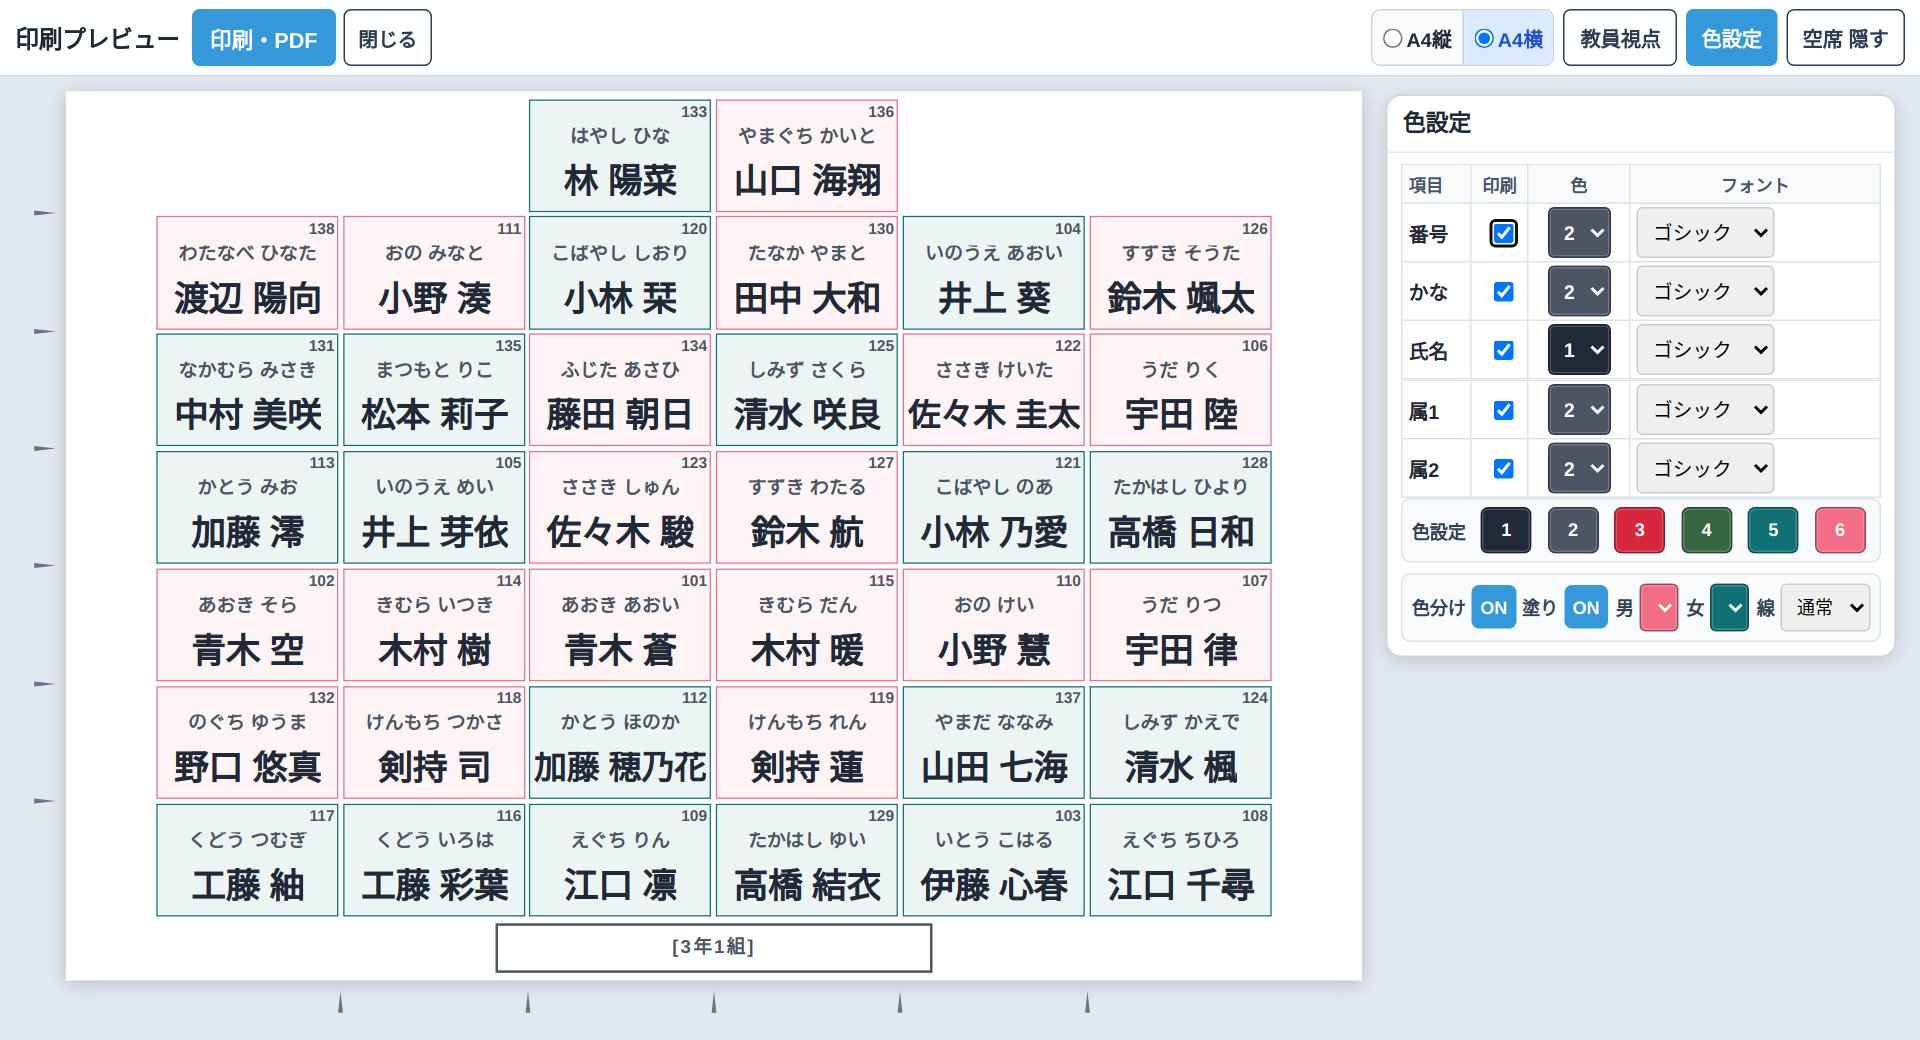
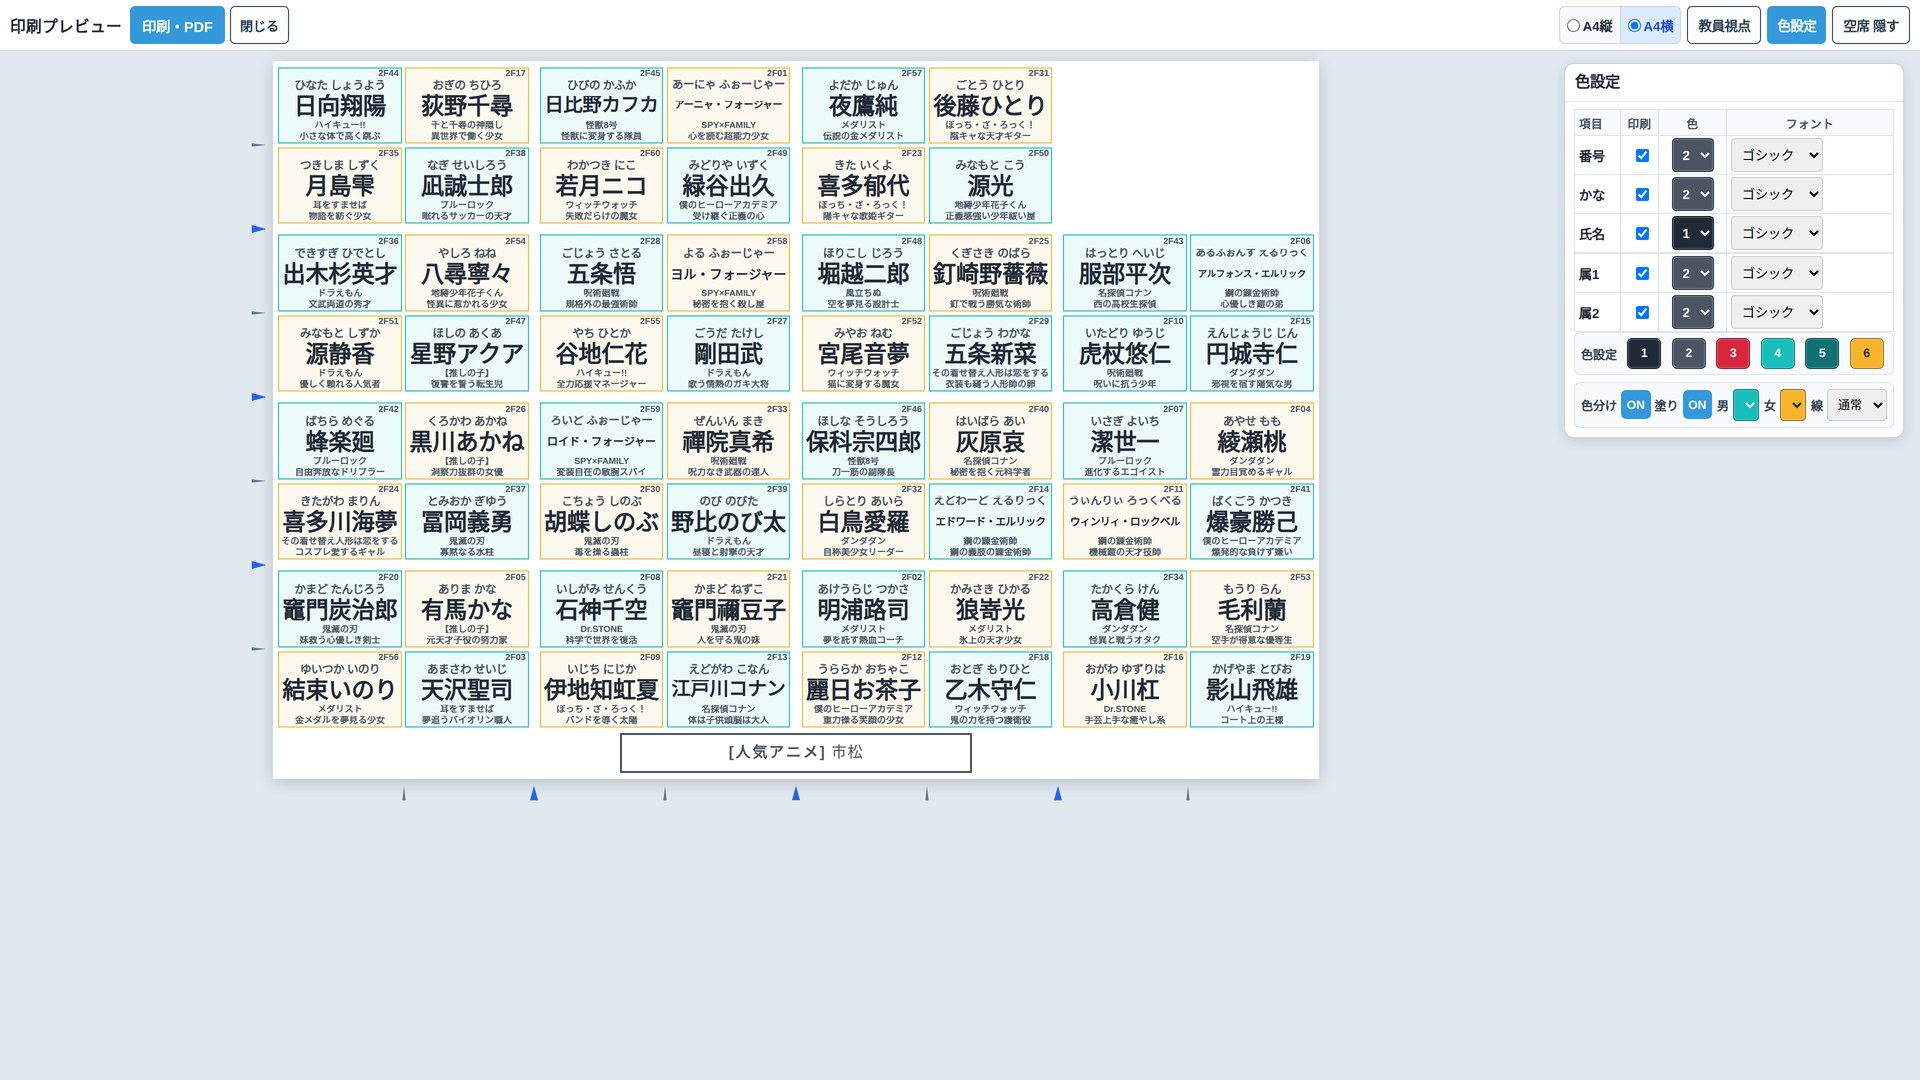
Guide: document seat count setting and print seat gap adjustment

diff --git a/guide.html b/guide.html
@@ -128,18 +128,33 @@
     <section class="card" id="step2">
       <h2><span class="step-no">2</span>座席を用意する</h2>
       <p><span class="ui">座席表・設定</span> タブの座席表の初期設定は <strong>6列 × 7行 = 42席</strong> です。画面の下側が教卓側で、<span class="ui">廊下</span> と <span class="ui">窓</span> の表示で教室の向きを確認できます。</p>
+
+      <h3>座席数を変える ― 教室の形に合わせる</h3>
+      <p>教室の列・行の数が初期設定と違うときは、右側パネルの <span class="ui">座席数 ○×○</span> ボタンを押して変更できます。<strong>横4〜8列・縦4〜10行</strong>の範囲で選べます（最大80席）。</p>
+      <figure class="mid">
+        <img src="guide-img/seat-size-dialog.jpg" alt="座席数設定ダイアログ。横8列・縦8行が選ばれ、全64枠／有効60席・名簿60名と表示されている" loading="lazy">
+        <figcaption>座席数設定。横と縦を選ぶと、全枠数・有効な席数・名簿の人数が表示される</figcaption>
+      </figure>
+      <ul>
+        <li>表示される「全○枠／有効○席・名簿○名」を見て、生徒全員が収まることを確認してから <span class="ui">変更する</span> を押します。</li>
+        <li>生徒が収まらない組み合わせを選ぶと注意が表示され、<span class="ui">変更する</span> は押せません（下の図）。</li>
+        <li>変更しても、新しい範囲内に収まっている配置はそのまま残ります。範囲の外にはみ出す席に生徒が配置されている場合は、確認画面が出て、現在の配置をクリアして変更されます（名簿と、確定した履歴は残ります）。確定前のプレビュー表示は破棄されます。</li>
+      </ul>
+      <figure class="mid">
+        <img src="guide-img/seat-size-error.jpg" alt="生徒60名に対して有効座席が42席ですという注意が表示され、「変更する」が押せなくなった座席数設定ダイアログ" loading="lazy">
+        <figcaption>生徒が収まらない組み合わせを選んだ場合。注意が表示され、「変更する」は押せない</figcaption>
+      </figure>
+
+      <h3>使わない席を空席にする</h3>
       <ul>
         <li><strong>使わない席は、タップ（クリック）すると非アクティブ（空席）になります。</strong>もう一度タップすると再びアクティブに戻ります。空席は配置の対象から外れます。</li>
-        <li>有効な席数は、右側の <span class="ui">座席 ○席</span> の表示で確認できます。生徒数と座席数をぴったり合わせておくと、配置が分かりやすくなります。</li>
+        <li>有効な席数は、右側の <span class="ui">有効 ○席</span> の表示で確認できます。生徒数と座席数をぴったり合わせておくと、配置が分かりやすくなります。</li>
       </ul>
       <p>例として、38名のクラスでは、最後列（教卓から一番遠い列）の左端2席と右端2席、合わせて4席を非アクティブにして、座席数を38席に合わせます。</p>
       <figure>
         <img src="guide-img/seats.jpg" alt="最後列の両端4席を非アクティブにした座席表" loading="lazy">
         <figcaption>最後列の両端4席を非アクティブにした状態。非アクティブの席は座標（a7など）が表示されず、空白になる</figcaption>
       </figure>
-      <div class="note">
-        <strong>座席数の変更：</strong>メイン画面の「座席数」で横4〜8列・縦4〜10行を選べます（最大80席）。
-      </div>
     </section>
 
     <section class="card" id="step3">
@@ -230,7 +245,19 @@
       </ol>
       <figure>
         <img src="guide-img/print-preview.jpg" alt="印刷プレビューの画面" loading="lazy">
-        <figcaption>印刷プレビュー。左が印刷イメージ、右が表示・色の設定、上部に「印刷・PDF」ボタン</figcaption>
+        <figcaption>印刷プレビュー。左が印刷イメージ、右が表示・色の設定、上部に「印刷・PDF」ボタン。盤面の下辺と左辺に並ぶ小さな三角形が、席の間隔を調整する楔（くさび）ボタン</figcaption>
+      </figure>
+
+      <h3>席と席の間隔を調整する（楔ボタン）</h3>
+      <p>印刷プレビューの盤面のまわりには、列と列の間・行と行の間の境界ごとに、小さな三角形のボタン（楔ボタン）があります。列の間の楔は盤面の<strong>下辺</strong>に、行の間の楔は<strong>左辺</strong>に並びます。</p>
+      <ul>
+        <li>楔ボタンを押すたびに、その境界の間隔が <strong>1倍 → 3倍 → 5倍 → 1倍</strong> と切り替わります。広げた境界の楔は、太く青くなります。</li>
+        <li>通路にしたい列の間だけ広げる、といった調整が境界ごとにできます。</li>
+        <li>間隔の設定はクラスごとに保存され、通常画面の座席表にも同じ間隔が反映されます。楔ボタン自体は印刷されません。</li>
+      </ul>
+      <figure>
+        <img src="guide-img/print-gaps.jpg" alt="盤面下辺の楔ボタンの拡大。太く青い楔ほど間隔が広い" loading="lazy">
+        <figcaption>盤面下辺の楔ボタン（拡大）。左から5倍・3倍・1倍・3倍の状態で、太く青い楔のところほど席の間隔が広い</figcaption>
       </figure>
     </section>
 
@@ -241,6 +268,8 @@
         <dd>使用しているパソコンのブラウザ内に自動で保存されます。別のパソコンやブラウザでは引き継がれないので、移したいときは <span class="ui">名簿管理</span> の <span class="ui">バックアップ保存</span> でファイルに書き出し、移し先で <span class="ui">バックアップ読込</span> を使ってください。更新前の通常版データが同じブラウザに残っている場合は、座席表・設定の <span class="ui">旧通常版のデータを引き継ぐ</span> からクラスを追加できます。</dd>
         <dt>画面の向きや見え方を変えたい</dt>
         <dd>右上の <span class="ui">画面： 横</span> で縦向き表示に切り替えられます。<span class="ui">教員視点</span> / <span class="ui">生徒視点</span> は、座席表を見る向き（教卓側から／生徒側から）を切り替えます。</dd>
+        <dt>通路のところだけ席の間隔を広げたい</dt>
+        <dd>印刷プレビューで、広げたい境界の楔（くさび）ボタンを押して間隔を調整できます。詳しくはステップ5の「席と席の間隔を調整する」を見てください。</dd>
         <dt>座席に表示する項目を変えたい</dt>
         <dd>右側の「座席内レイアウト設定」で、番号・かな・氏名・属性1・属性2ごとに、表示と印刷の有無、文字の色、フォント（ゴシック／明朝／丸ゴ／教科書）を選べます。</dd>
         <dt>「この生徒は前列に」「この2人は離して」といった条件を付けたい</dt>
